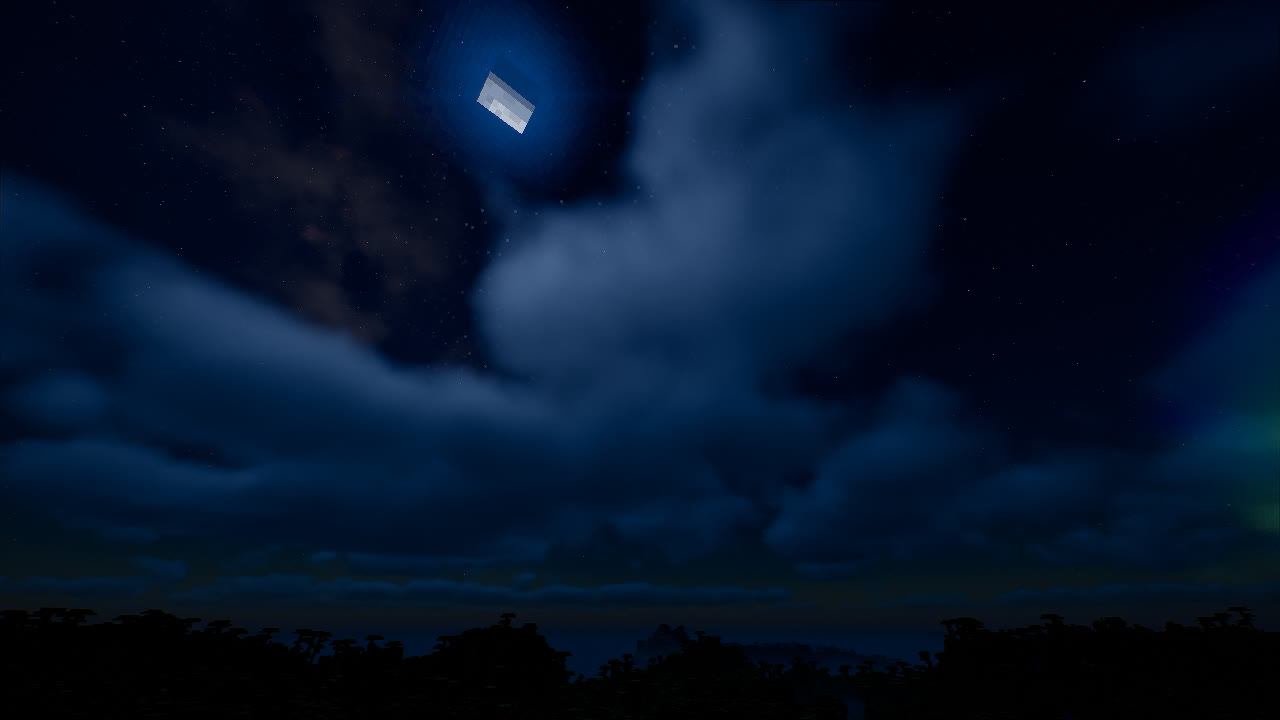
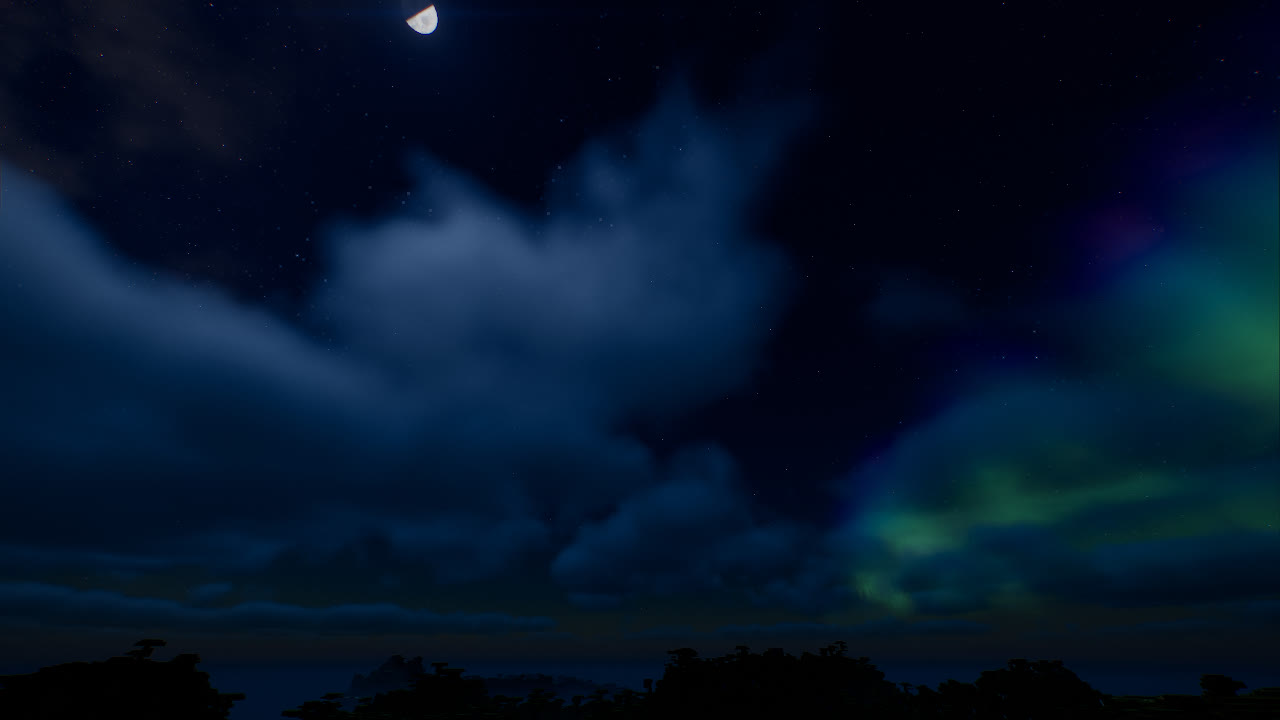
v0.6: round sun and moon with phases, volumetric Nether smoke, waving lava
- procedural round sun (limb darkening, corona) and moon (craters, maria,
  vanilla moon phases, halo); vanilla square moon hidden
- moon also appears in water reflections
- volumetric Nether smoke in the half-res volume pass, lit by the lava ocean
- waving lava surface, stronger heat shimmer
- warm, desaturated Nether sky so the grade can't turn it blue
- README screenshots updated

diff --git a/README.md b/README.md
@@ -4,7 +4,7 @@
 
 ChopzCinema soll Minecraft wie einen Kinofilm aussehen lassen: starkes Licht- und Schattenspiel, ein Film-Look mit tintenschwarzen Schatten und satten Farben wie in modernen Blockbustern, volumetrische Wolken, Nebel, Lichtstrahlen, ein echter Sternenhimmel mit Polarlichtern und Regen, der sich nach Film anfühlt.
 
-> **Status:** v0.5, Entwicklungsversion. Im Spiel getestet mit Forge 47.4.20, Oculus 1.8.0, Embeddium 0.3.31 und Distant Horizons 3.2.0 in einer generierten Welt. Alle Screenshots unten stammen direkt aus diesem Test.
+> **Status:** v0.6, Entwicklungsversion. Im Spiel getestet mit Forge 47.4.20, Oculus 1.8.0, Embeddium 0.3.31 und Distant Horizons 3.2.0 in einer generierten Welt. Alle Screenshots unten stammen direkt aus diesem Test.
 
 ---
 
@@ -22,9 +22,11 @@ ChopzCinema soll Minecraft wie einen Kinofilm aussehen lassen: starkes Licht- un
 | ![Wald](docs/screenshots/forest.jpg) | ![Gewitter](docs/screenshots/storm.jpg) |
 | **Wald am Morgen**: Schärfentiefe, Lens Flare | **Gewitter**: Regenschlieren, Regenschleier, Filmstimmung |
 | ![Polarlichter](docs/screenshots/aurora.jpg) | ![Nachthimmel](docs/screenshots/night_sky.jpg) |
-| **Polarlichter** (in manchen Nächten) | **Nachthimmel**: Milchstraße, Sterne, Mondlicht |
+| **Polarlichter** (in manchen Nächten) | **Nachthimmel**: runder Mond mit Phasen, Sterne, Polarlichter |
 | ![Unter Wasser](docs/screenshots/underwater.jpg) | ![Nether](docs/screenshots/nether.jpg) |
-| **Unter Wasser**: Lichtstrahlen durch die Wellen | **Nether**: glühende Lava, tintenschwarze Schatten |
+| **Unter Wasser**: Lichtstrahlen durch die Wellen | **Nether**: Lavasee, aufsteigender Rauch, tintenschwarze Schatten |
+| ![Sonne](docs/screenshots/sun.jpg) | |
+| **Runde Sonne** mit weicher Korona | |
 
 ---
 
@@ -56,6 +58,7 @@ ChopzCinema soll Minecraft wie einen Kinofilm aussehen lassen: starkes Licht- un
 - Dunkler Sternenhimmel mit drei Sternebenen, unterschiedlichen Farbtemperaturen und Funkeln
 - **Milchstraße** mit Staubbändern und Nebelflecken
 - Die Sterne drehen sich mit dem Himmel
+- **Runde Sonne** mit Randverdunklung und Korona, **runder Mond** mit Kratern und den echten Mondphasen (statt der eckigen Vanilla-Texturen)
 - **Sternschnuppen**
 - **Polarlichter** in etwa 30 % der Nächte (einstellbar), sie spiegeln sich auch im Wasser
 
@@ -75,6 +78,8 @@ ChopzCinema soll Minecraft wie einen Kinofilm aussehen lassen: starkes Licht- un
 
 ### 🔥 Hitze
 - **Hitzeflimmern** steigt über Lava, Feuer, Magma, Lagerfeuern und Öfen auf
+- **Nether-Rauch**: volumetrischer, langsam aufsteigender Rauch, von unten orange angestrahlt (ähnlich dem „Nether Storm“ in Complementary Unbound)
+- **Wogende Lava**: die Lavaoberfläche bewegt sich langsam
 - Im Nether flimmert die Ferne, und der Nebel über dem Lavameer glüht orange
 
 ### 🏔 Distant Horizons
@@ -119,12 +124,12 @@ Das Menü gibt es auf **Deutsch** und Englisch:
 |---|---|
 | Kamera & Film | Belichtung, Filmkurve, Grading, Bloom, Lens Flare, Schärfentiefe, Vignette, Korn, Kinobalken, TAA |
 | Himmel, Wolken & Nebel | Wolken (Qualität, Höhe, Dicke, Bedeckung), Lichtstrahlen, Nebel, Morgennebel, Höhlennebel |
-| Nachthimmel | Sterne, Milchstraße, Sternschnuppen, Polarlichter (aus / manche Nächte / jede Nacht) |
+| Nachthimmel | runde Sonne & Mond (Größe), Sterne, Milchstraße, Sternschnuppen, Polarlichter (aus / manche Nächte / jede Nacht) |
 | Beleuchtung | Sonne, Himmelslicht, Nacht, Fackellicht und Farbtemperatur |
 | Schatten | Auflösung, Distanz, Weichheit, farbige Schatten, Sonnenwinkel |
 | Wasser & Reflexionen | Wellen, Klarheit, Kaustiken, Unterwasser-Strahlen, Reflexionen |
 | Regen | Regenschlieren, Tropfen-Ringe, Pfützen, Regenschleier, Blitze, Filmstimmung |
-| Hitze | Hitzeflimmern, Nether-Flimmern, Lava-Glühen |
+| Hitze | Hitzeflimmern, Nether-Flimmern, Lava-Glühen, Nether-Rauch, wogende Lava |
 | Wind | wehende Pflanzen und Blätter |
 
 ---
